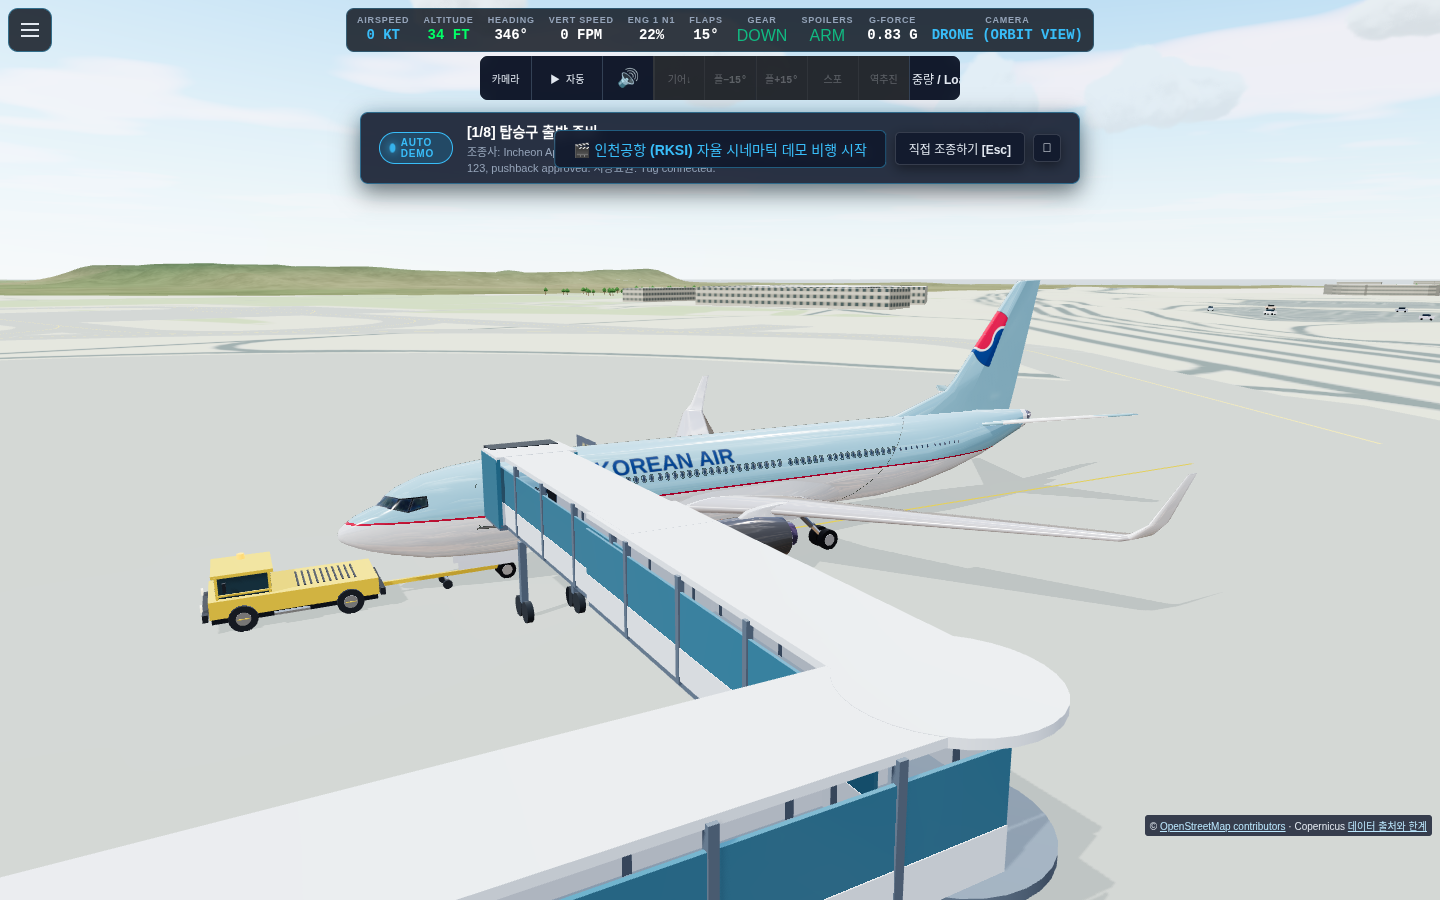
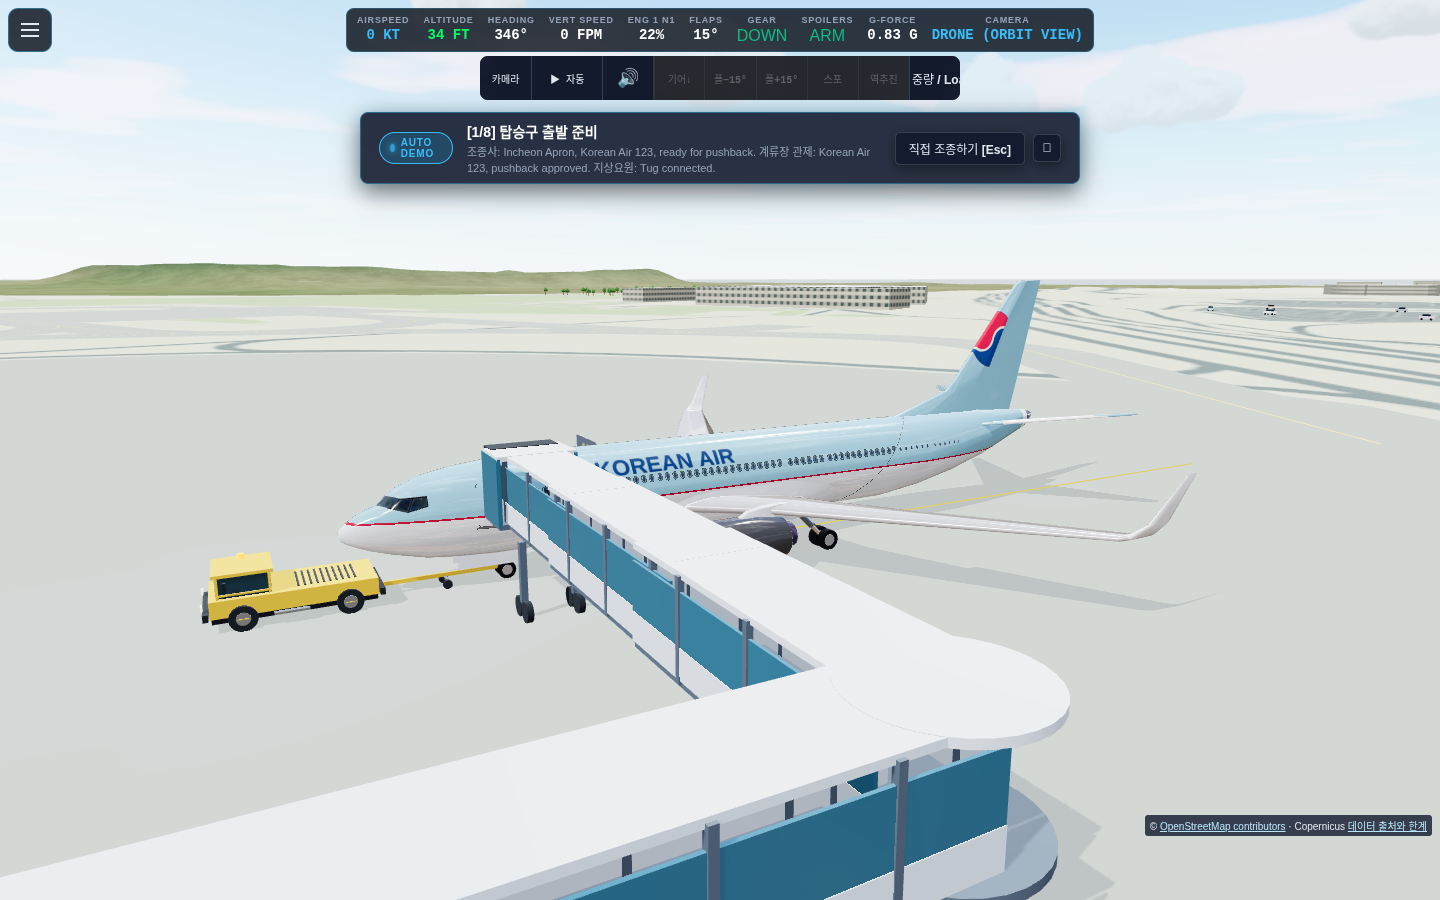
Keep bridge telescopes overlapped throughout retraction

Changed region(s): [[0.3438, 0.4978, 0.4688, 0.7156], [0.375, 0.1244, 0.625, 0.1867]]

diff --git a/src/environment/DepartureJetBridge.js b/src/environment/DepartureJetBridge.js
@@ -43,12 +43,13 @@ export function createDepartureJetBridge(groundHeight) {
   rotunda.position.set(0,floorHeight,accessLength); group.add(rotunda);
   const roof = new THREE.Mesh(new THREE.CylinderGeometry(1.9,1.9,.18,32),shell);
   roof.position.set(0,floorHeight+tunnelHeight,accessLength); group.add(roof);
-  const fixedLength=distance*.54, innerStart=fixedLength*.8;
-  tunnel(arm,fixedLength,width);
-  // A fixed-length inner tunnel slides into the outer tunnel when parked.
-  const innerLength=distance-innerStart;
+  // Three overlapping tubes retract without projecting behind the rotunda.
+  tunnel(arm,9.6,width);
+  const middle=new THREE.Group();middle.name='jetbridge-middle';arm.add(middle);
+  tunnel(middle,9,width-.25);
+  const innerLength=8.7;
   const inner=new THREE.Group();inner.name='jetbridge-telescope';arm.add(inner);
-  tunnel(inner,innerLength,width-.3);
+  tunnel(inner,innerLength,width-.5);
   const cab=new THREE.Group();cab.name='jetbridge-door-cab';arm.add(cab);
   // The rotunda turns independently so the bellows face the port door,
   // rather than pointing along the terminal's telescoping tunnel.
@@ -71,9 +72,10 @@ export function createDepartureJetBridge(groundHeight) {
   for (let z=1;z<accessLength;z+=9) box(group,.5,floorHeight,.5,0,floorHeight/2,z,frame);
   box(group,1.4,floorHeight,1.4,0,floorHeight/2,accessLength,frame);
   let extension=0;
-  const bridge={group,access,arm,cab,door,distance,get extension(){return extension;},setExtension(value){
+  const bridge={group,access,arm,middle,inner,cab,door,distance,get extension(){return extension;},setExtension(value){
     extension=THREE.MathUtils.clamp(value,0,1);
     const end=distance-(1-extension)*13;
+    middle.position.z=.8+extension*6.9;
     inner.position.z=end-innerLength;
     cab.position.x=-Math.sin(cab.rotation.y)*1.05;
     cab.position.z=end-Math.cos(cab.rotation.y)*1.05;

diff --git a/tests/departureJetBridge.test.js b/tests/departureJetBridge.test.js
@@ -19,6 +19,11 @@ test('737 bridge docks at the port door and telescopes clear without moving the 
   const parked=b.cab.localToWorld(new THREE.Vector3(0,0,1.05));
   assert.ok(dock.distanceTo(parked)>12.9);
   assert.ok(b.group.position.equals(anchor));
+  for(let extension=0;extension<=1;extension+=.05){
+    b.setExtension(extension);
+    assert.ok(b.middle.position.z>=0 && b.middle.position.z<9.6,'middle tube stays inside the outer tube');
+    assert.ok(b.inner.position.z>=b.middle.position.z && b.inner.position.z<b.middle.position.z+9,'inner tube stays overlapped and never protrudes behind the rotunda');
+  }
   b.setExtension(5);assert.equal(b.extension,1);
   b.setExtension(-1);assert.equal(b.extension,0);
 });

diff --git a/review-artifacts/737-ground-service/README.md b/review-artifacts/737-ground-service/README.md
@@ -5,6 +5,7 @@
 - `korean-air-port.png`: classic blue-top scheme, titles and tail emblem.
 - `tug-coupled.png`: low-profile tractor, 5.1 m rigid towbar, nose pin and belly clearance.
 - `bridge-layout.png`: right-angle fixed access corridor and telescopic apron arm.
+- `bridge-clear-pushback.png`: terminal-wall connection and parked three-section arm.
 - `tug-disconnected.png`: released tractor drives clear with its towbar on the dolly.
 
 Gate layout and livery are authored interpretations, not a surveyed stand or a
@@ -14,7 +15,8 @@ or third-party vehicle model is bundled.
 
 Validation:
 
-- Complete regression suite: 780 passed. After final paint/gear refinements,
+- Complete local regression suite: 780 passed; PR CI after rebasing the latest
+  touch-control work: 790 passed. After final paint/gear refinements,
   28 gear/PBR/control-surface/bridge tests passed; 7 tow/radio tests passed after
   correcting wheel rolling direction.
 - Syntax/action-pin checks and production build passed.

diff --git a/docs/development/incheon-departure.md b/docs/development/incheon-departure.md
@@ -10,7 +10,9 @@ with an airborne manual handoff. Bundled English radio speech includes distinct 
 
 G1 is an authored gate placement within source Apron 1, not a surveyed stand ID.
 Its L-shaped bridge has a fixed elevated access corridor, a right-angle rotunda,
-and a telescopic apron arm docking at the 737 forward port door. Only the apron
+and a three-section telescopic apron arm docking at the 737 forward port door.
+All three tubes remain overlapped from docked to parked; the inner tube does not
+protrude behind the rotunda during retraction. Only the apron
 arm retracts before pushback. The layout reproduces this gate architecture, not
 surveyed dimensions of a particular Incheon stand. The fixed access axis meets
 the frozen terminal footprint (`relation/3917466`) at aircraft-local Z=-48.227 m;
